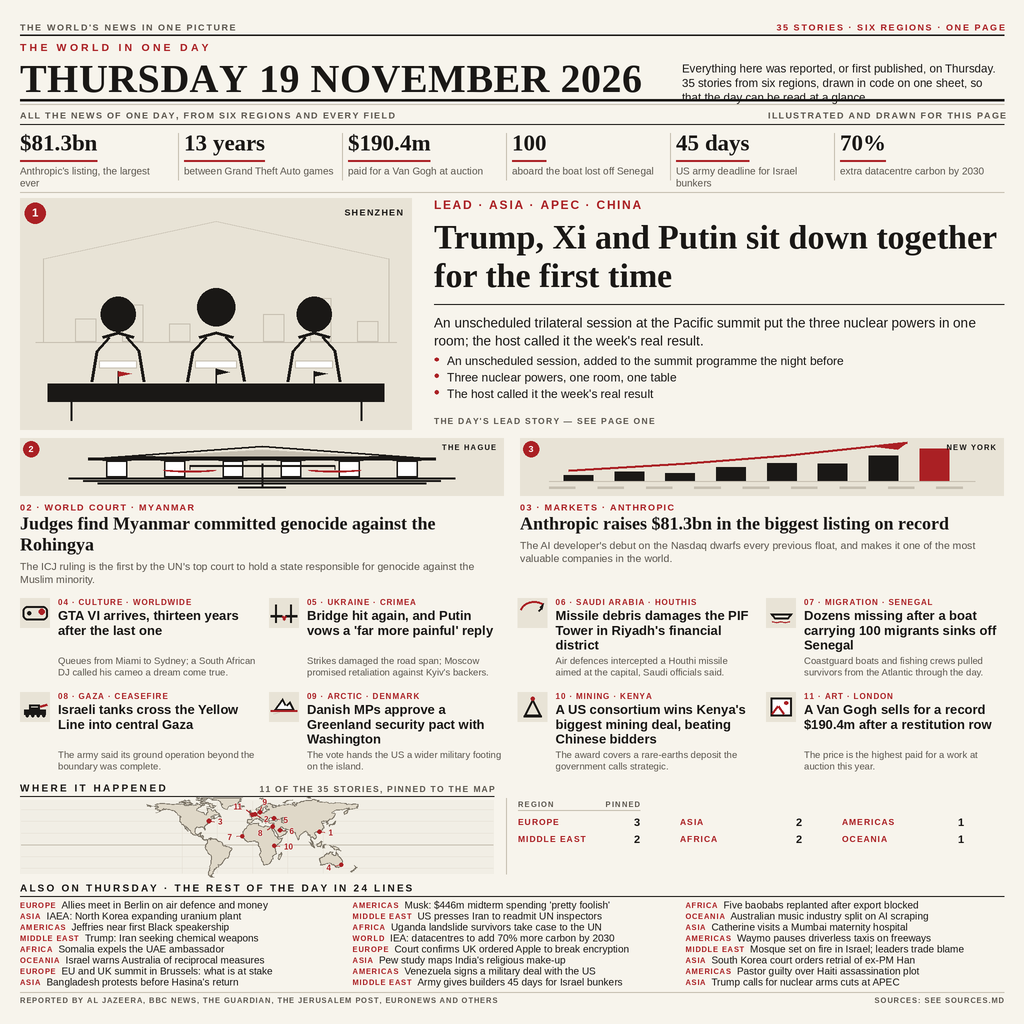
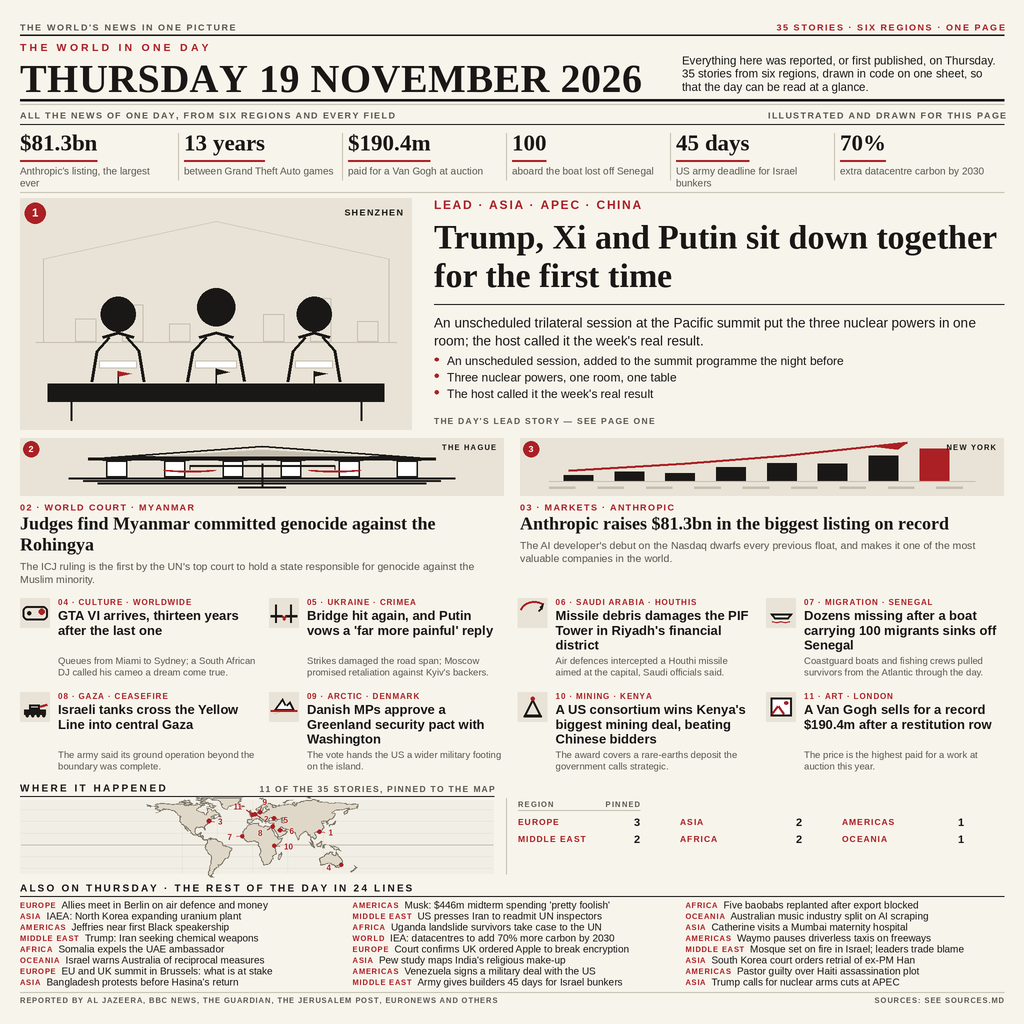
Keep the standfirst clear of the rule under it, and teach the audit to catch any rule that runs through a line

Changed region(s): [[0.6562, 0.0312, 0.9688, 0.0938]]

diff --git a/tools/render.py b/tools/render.py
@@ -49,6 +49,7 @@ image = Image.new("RGB", (W * S, W * S), PAPER)
 draw = ImageDraw.Draw(image)
 _fonts: dict[tuple[int, str], ImageFont.FreeTypeFont] = {}
 _cells: list[dict] = []
+_rules: list[tuple[float, float, float]] = []
 _placed: list[dict] = []
 _issues: list[str] = []
 
@@ -144,6 +145,7 @@ def para(x: float, y: float, s: str, size: float, face: str, width: float,
 
 
 def hair(x0: float, y: float, x1: float, color=RULE, width: float = 1.0) -> None:
+    _rules.append((y, x0, x1))
     draw.line([(P(x0), P(y)), (P(x1), P(y))], fill=color, width=max(1, P(width)))
 
 
@@ -427,10 +429,10 @@ def header() -> None:
         size -= 1
         date_w = tw(content.DATE, size, "serif", 0.5) + 0.5 * (len(content.DATE) - 1)
     caps(content.DATE, size, "serif", M, 56, color=INK, tracking=0.5, limit=CW, cell="header", name="date")
-    para(W - M - stand_w, 62, "Everything here was reported, or first published, on Thursday. "
+    para(W - M - stand_w, 54, "Everything here was reported, or first published, on Thursday. "
          f"{content.story_count()} stories from six regions, drawn in code on one sheet, "
          "so that the day can be read at a glance.",
-         11.6, "sans", stand_w, 14.6, 5, color=INK, cell="header", name="standfirst")
+         11.4, "sans", stand_w, 13.2, 5, color=INK, cell="header", name="standfirst")
 
     hair(M, 100, W - M, color=INK, width=2.4)
     hair(M, 104, W - M, color=RULE, width=0.8)
@@ -603,6 +605,14 @@ def audit() -> dict:
             oy = min(ay1, by1) - max(ay0, by0)
             if ox > 0.9 and oy > 0.9:
                 _issues.append(f"overlap {a['name']} / {b['name']} by {ox:.1f}x{oy:.1f}")
+    # a rule that runs through a line of text reads, at thumbnail size, as garbled
+    for p in _placed:
+        for ry, rx0, rx1 in _rules:
+            if p["x"] + p["w"] < rx0 - 1 or p["x"] > rx1 + 1:
+                continue
+            if p["y"] + 1.0 < ry < p["y"] + p["h"] - 1.0:
+                _issues.append(f"{p['cell']}/{p['name']}: a rule at y={ry:.1f} runs through this text")
+                break
     boxes = {c["name"]: c["box"] for c in _cells}
     for p in _placed:
         b = boxes.get(p["cell"])
